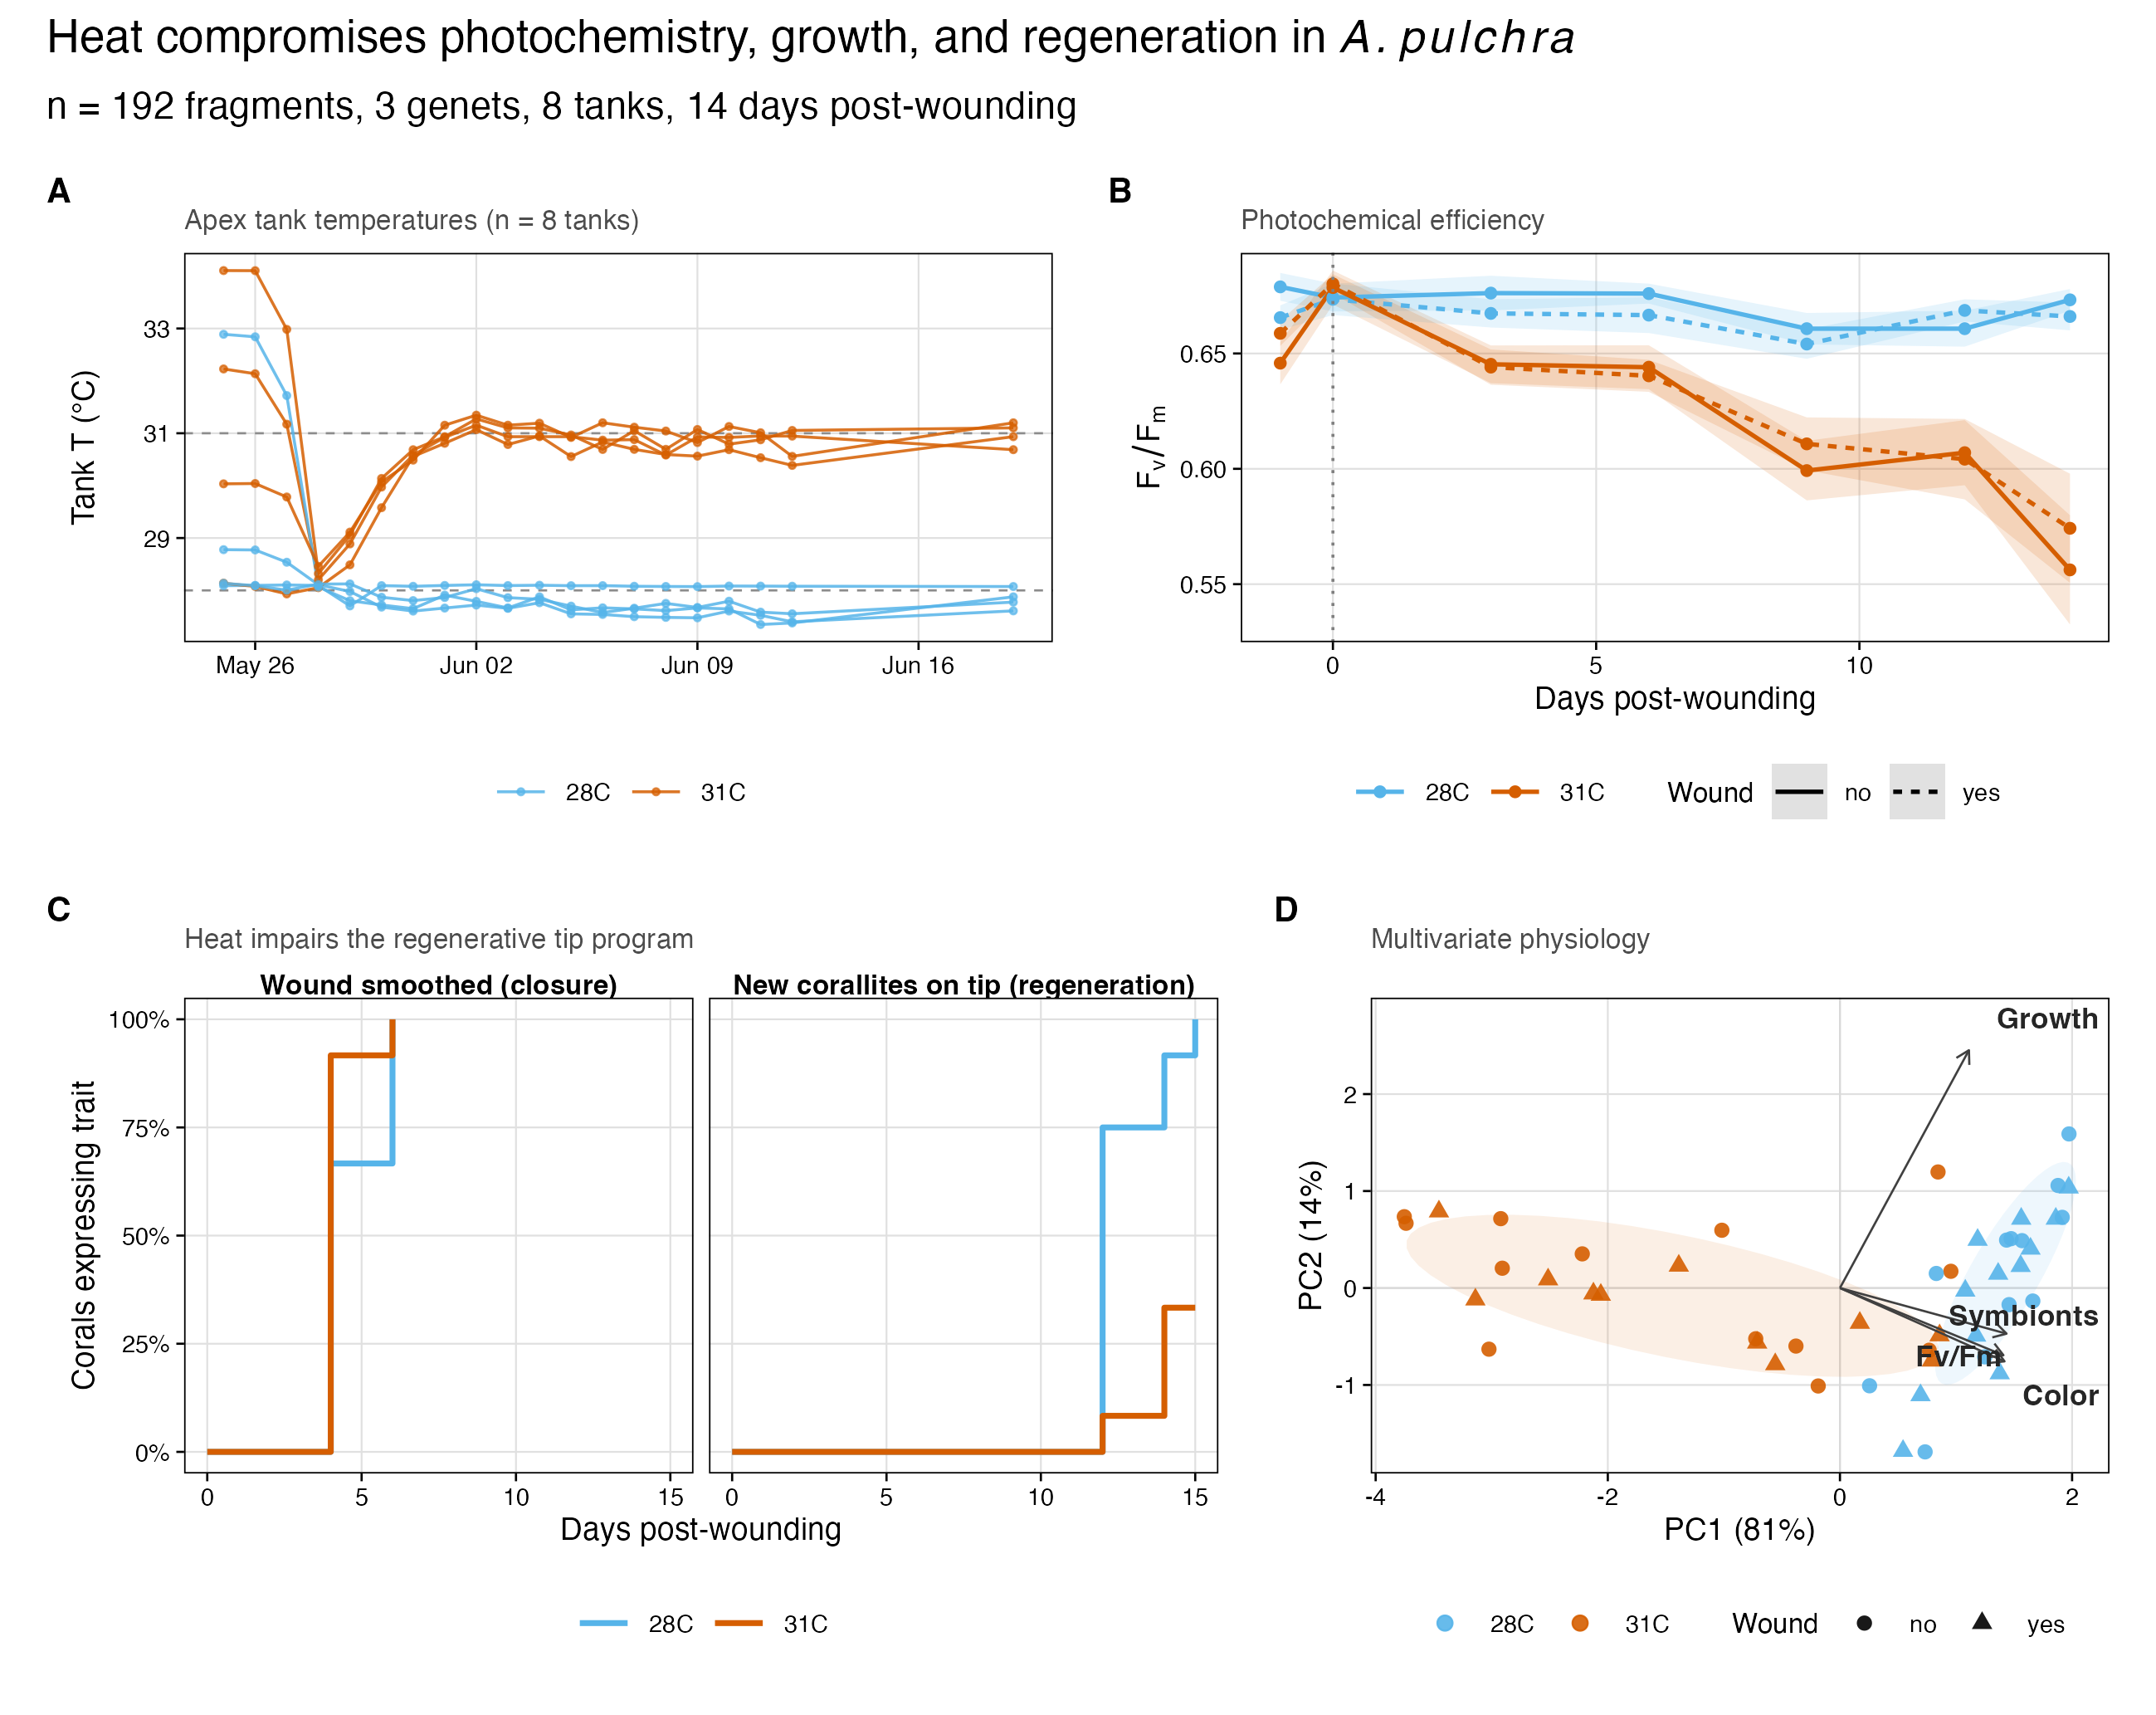
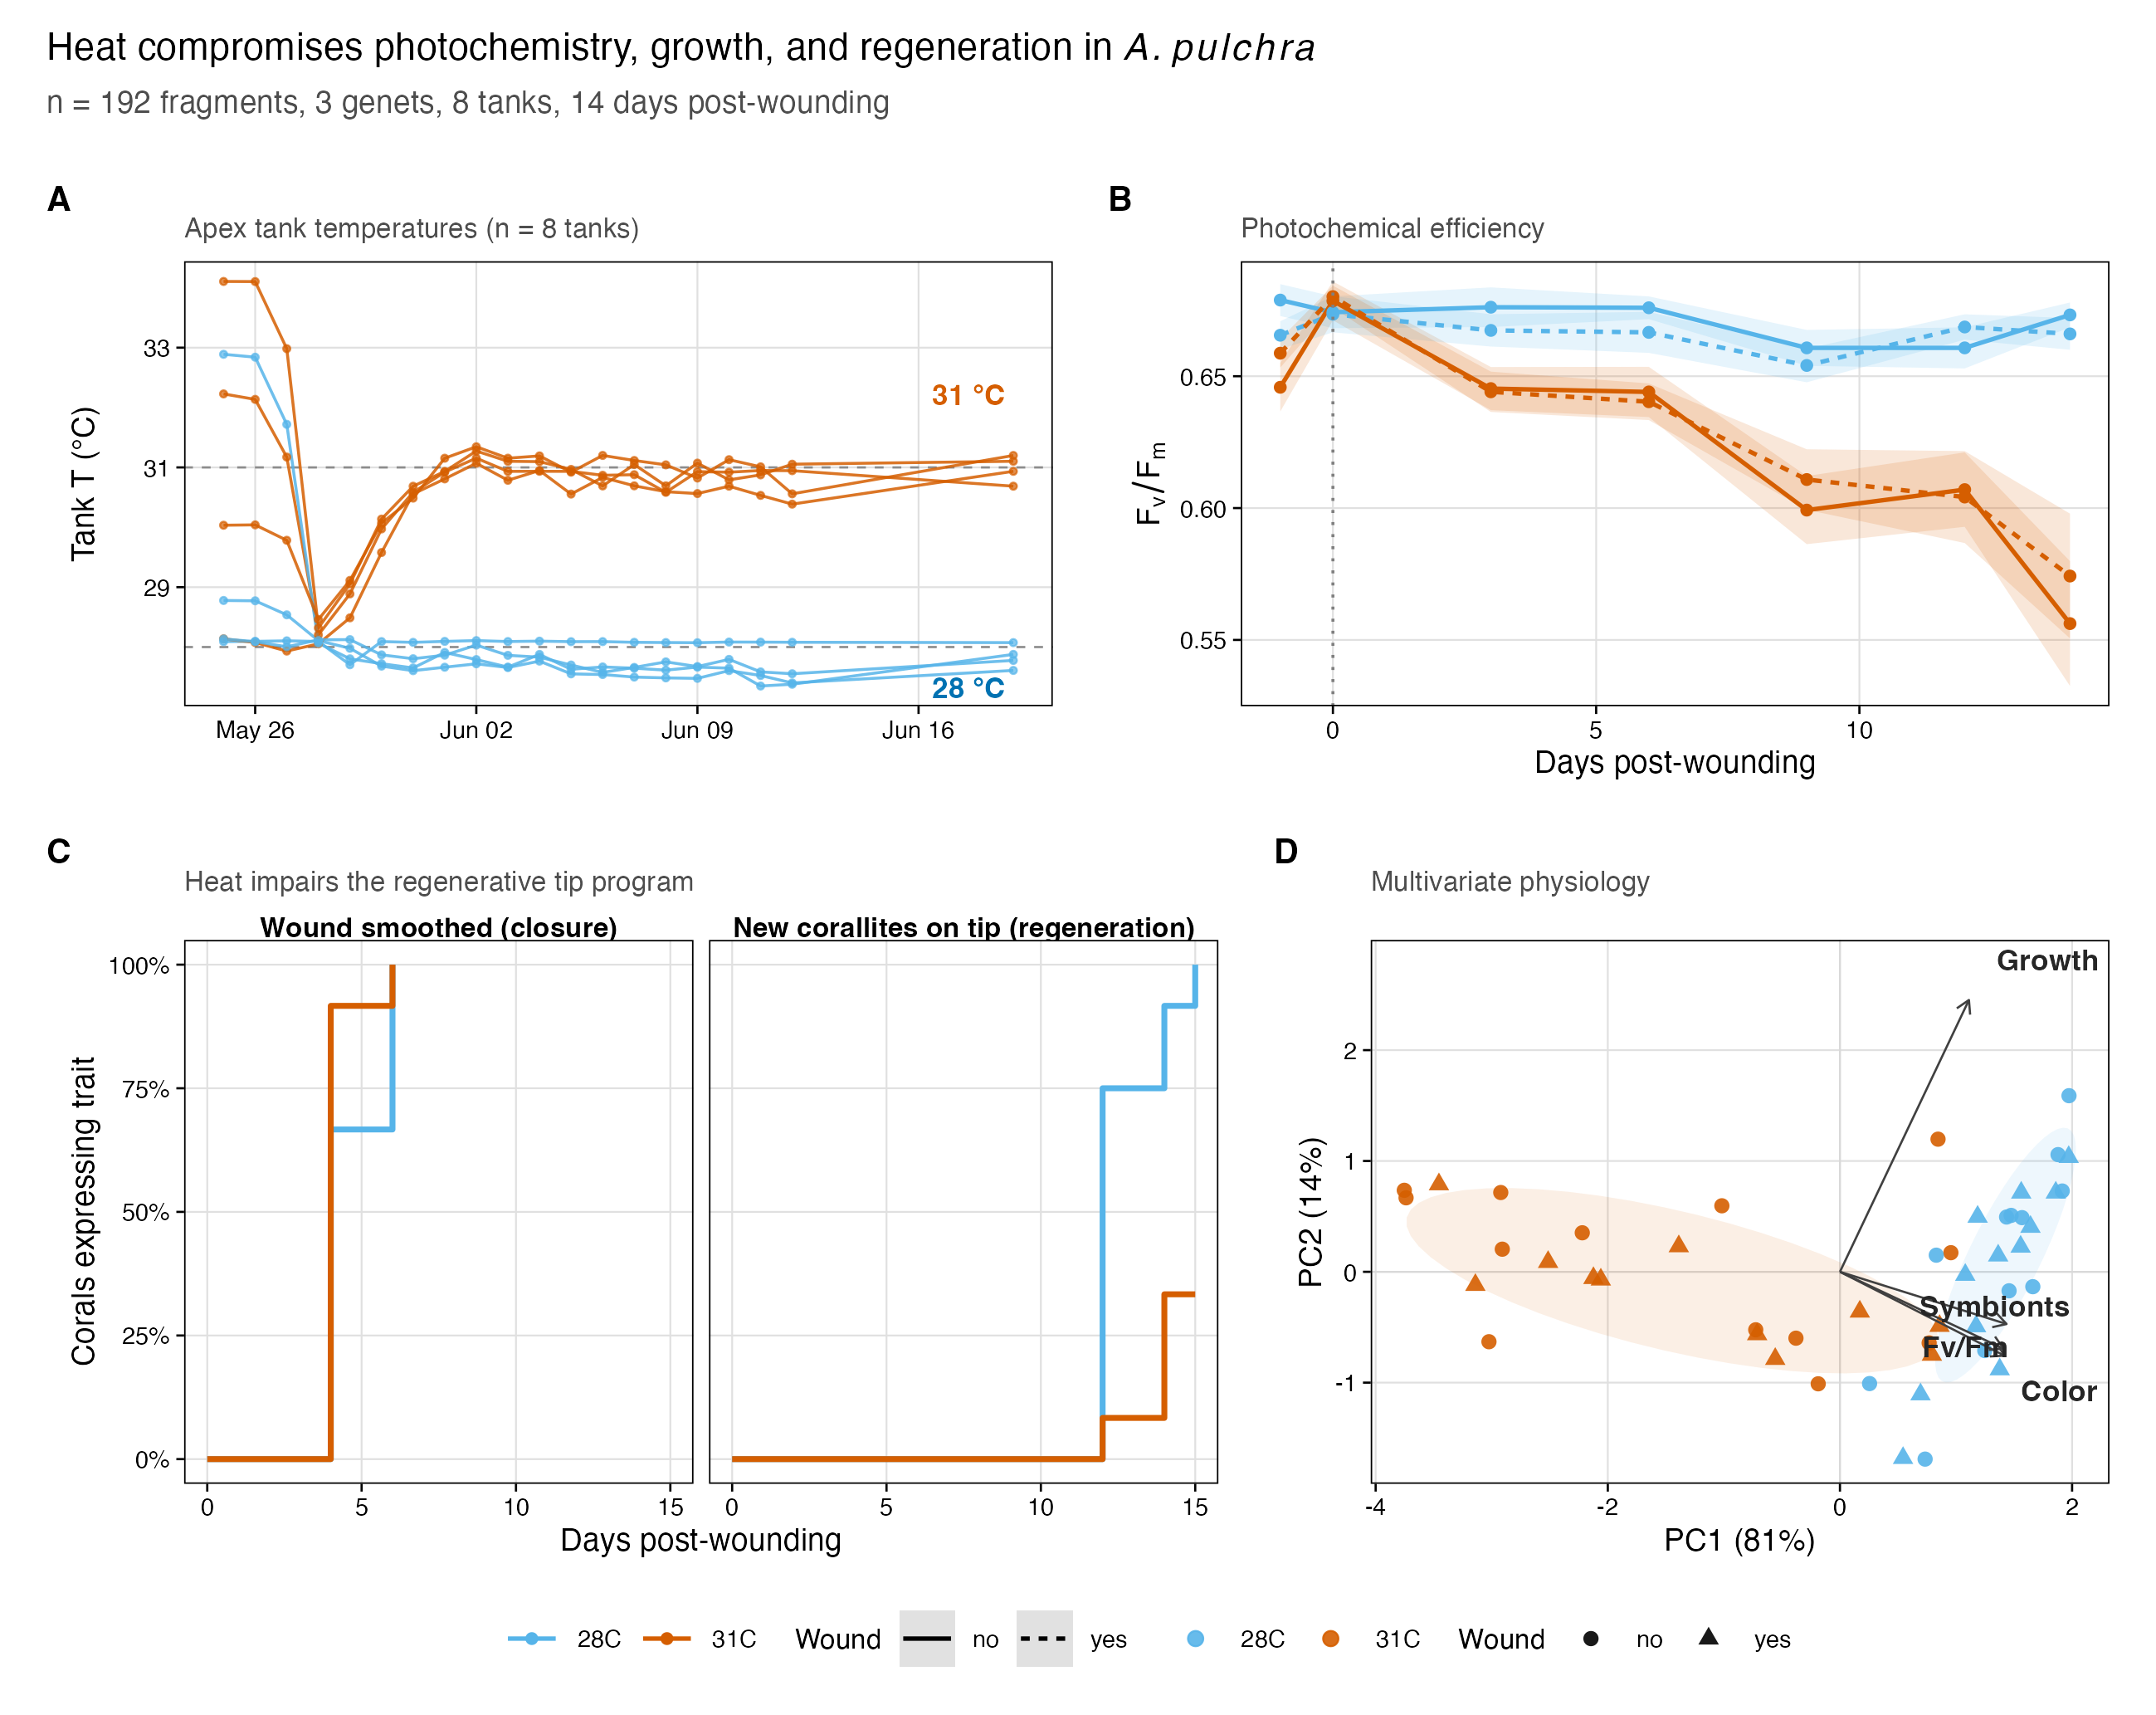
Multi-model critique pass on Fig 16: consolidate legends
Both Codex (GPT-4o, 27/40) and Gemini 2.5 Pro (23/40) flagged the
multi-legend layout as the single most impactful issue. Both critique
reports saved under figures/critiques/.

Applied fixes:
- Direct-label 28C/31C on Panel A (Codex: "two-group comparisons should
  be direct-labeled, not legend")
- patchwork::plot_layout(guides = "collect") to merge per-panel legends
- Removed colour guide from Panel C (already direct-labeled via A)
- Added explicit title/subtitle margin so panel letters get breathing
  room (Gemini: "title is too close to panels")

Tagged v0.1.0 release.

diff --git a/figures/critiques/gemini_critique_report.md b/figures/critiques/gemini_critique_report.md
@@ -1,0 +1,34 @@
+# Gemini Figure Critique Report
+
+**Date:** 2026-05-23 19:08
+**Journal:** Coral Reefs
+**Model:** gemini-2.5-pro (via Gemini CLI, OAuth subscription)
+
+---
+
+## 16_manuscript_fig1.png
+
+Skill conflict detected: "remotion-best-practices" from "/Users/adrianstier/.agents/skills/remotion-best-practices/SKILL.md" is overriding the same skill from "/Users/adrianstier/.gemini/skills/remotion-best-practices/SKILL.md".
+| Dimension | Score | Observation | Fix (if less than 4) |
+| :--- | :--- | :--- | :--- |
+| 1. Panel proportions | 4/5 | "The four main panels (A, B, C, D) have equal width and height, creating a balanced 2x2 grid." | The two sub-panels within Panel C are half the width of the others, which is slightly jarring. Consider giving Panel C more horizontal space if the x-axis detail is important. |
+| 2. Margins and clipping | 2/5 | "The main title 'Heat compromises photochemistry...' is too close to the panel letters, with descenders from 'photochemistry' and 'regeneration' nearly touching the 'B' and 'A' tags." | Add vertical space (e.g., `plot.margin` in ggplot2) between the figure title and the plot area to ensure clear separation. |
+| 3. Axis alignment | 1/5 | "The plot areas are not aligned. For example, the left edge of the plot area in Panel A is not vertically aligned with the plot area in Panel C." | Use a package like `patchwork` in R to compose the panels. It automatically aligns plot areas for panels stacked vertically or horizontally, which would fix this issue completely. |
+| 4. Legend system | 1/5 | "There are three separate, redundant legends for the '28C' vs '31C' color mapping (under panels A, C, and D), and two separate legends for the 'Wound' mapping (under B and D)." | Use a single, collected legend for the entire figure, placed at the bottom. The rules state "3-6 groups legend at bottom," and this principle of collection should apply. |
+| 5. Text readability | 3/5 | "The biplot labels in Panel D ('Growth', 'Symbionts', 'Fv/Fm', 'Color') are small, overlapping, and difficult to read." | Increase the font size of the biplot labels. Use a package like `ggrepel` to prevent the labels from overlapping each other and the data points. |
+| 6. Spacing consistency | 2/5 | "The vertical spacing between rows is inconsistent and cluttered with legends. The space between the title and row 1 is too tight, while the space between row 1 and row 2 is too large and filled." | Use a dedicated composition tool (like `patchwork`) and its `plot_layout(guides = 'collect')` feature. This will standardize spacing and collect legends, creating a clean and consistent layout. |
+| 7. Color accessibility | 5/5 | "The figure uses a light blue and an orange/brown, consistent with a colorblind-safe Okabe-Ito palette." | N/A |
+| 8. Data-ink ratio | 5/5 | "The plots use a minimal theme with a white background and light grey major gridlines, avoiding unnecessary visual clutter." | N/A |
+| **TOTAL** | **23/40** | | |
+
+### Post-Critique Summary
+
+1.  **The single most impactful change to improve this figure is:** **Collect all legends into a single, shared legend at the bottom of the figure.** This one change, enforced with a tool like `patchwork`, would resolve the redundancy, de-clutter the layout, and force the panel axes to align properly, fixing the three lowest-scoring dimensions simultaneously.
+
+2.  **Scientific convention violations:** The figure is generally good at following scientific conventions (*A. pulchra* is italicized, axes have units, error is shown). The main violation is one of presentation, not science: the legend for linetype in panel B (`Wound no/yes`) is repeated with shape in panel D, which is confusing. A single, consistent mapping (e.g., wound = triangle, no wound = circle) across all relevant panels should be used and defined once in the main legend.
+
+3.  **Would this figure tell its story without a caption? What story does it tell?** Yes, it tells a clear story.
+    *   **Story:** An experiment was run comparing corals at a normal temperature (28°C) and a high temperature (31°C), with some corals in each group being wounded. The high temperature clearly stressed the corals. It caused their photosynthetic efficiency to drop (Panel B), and it dramatically slowed their ability to heal wounds and regenerate new polyps (Panel C). The overall physiological data confirms this, showing the hot corals separating from the cool corals and being associated with negative health indicators (Panel D). The take-home message is that heat stress severely compromises the health and resilience of *A. pulchra*.
+
+---
+

diff --git a/figures/critiques/codex_critique_report.md b/figures/critiques/codex_critique_report.md
@@ -1,0 +1,30 @@
+# Codex (GPT-4o) Figure Critique Report
+
+**Date:** 2026-05-23 19:08
+**Journal:** Coral Reefs
+**Model:** GPT-4o (via Codex CLI, ChatGPT subscription)
+
+---
+
+## 16_manuscript_fig1.png
+
+| Dimension | Score | Observation | Fix (if less than 4) |
+|-----------|-------|-------------|--------------|
+| 1. Panel proportions | 4/5 | The 2x2 structure is clear and panel widths are mostly balanced; panel C’s internal faceting makes it visually heavier than D. | N/A |
+| 2. Margins and clipping | 4/5 | No obvious clipping; title/subtitle have enough space, though overall whitespace is generous for a 220 mm print figure. | N/A |
+| 3. Axis alignment | 3/5 | Top and bottom rows align reasonably, but shared “days post-wounding” axes are split across B and C rather than visually coordinated. | Consider stacking time-series/regeneration panels or standardizing x-axis treatment where biologically comparable. |
+| 4. Legend system | 2/5 | Multiple separate legends appear under A, B, C, and D. Two-group temperature legends violate the direct-labeling rule, and legends are not consolidated. | Direct-label 28C/31C in A and C; use one shared bottom legend for temperature plus wound status across B/D. |
+| 5. Text readability | 4/5 | Most text appears readable at 220 mm; axis titles are larger than tick labels and facet strip text in C is bold. | N/A |
+| 6. Spacing consistency | 3/5 | Vertical spacing is uneven: large gaps are driven by per-panel legends, especially between B and D and below C. | Remove redundant legends and use a single shared bottom legend to reclaim space and equalize row spacing. |
+| 7. Color accessibility | 4/5 | Blue/orange palette is effectively Okabe-Ito-like and colorblind-safe; linetype/shape redundantly encode wound status. | N/A |
+| 8. Data-ink ratio | 3/5 | The figure uses clean panels, but repeated legends, large title/subtitle, and prominent gridlines consume space relative to data. | Reduce legend repetition, lighten major gridlines, and consider moving experimental n details to caption if journal style allows. |
+| TOTAL | 27/40 | | |
+
+1. The single most impactful change: consolidate the legend system. Direct-label temperature where only two groups are shown, and use one shared bottom legend only where temperature and wound status both need decoding.
+
+2. Scientific convention violations: panel letters are present and clear; no legend is inside the data area. The main issue is legend convention: two-group comparisons should be direct-labeled, and repeated legends should be shared. Panel C also mixes two related regeneration endpoints correctly via faceting, but its shared x-axis could be cleaner with only one bottom axis label.
+
+3. Would this figure tell its story without a caption? Mostly yes. The main narrative is clear: heat treatment depresses photochemical efficiency, slows regeneration, and separates physiology in multivariate space. The exact experimental design and timing would still need the caption.
+
+---
+

diff --git a/figures/critiques/round2_/codex_critique_report.md b/figures/critiques/round2_/codex_critique_report.md
@@ -1,0 +1,8 @@
+# Codex (GPT-4o) Figure Critique Report
+
+**Date:** 2026-05-23 19:10
+**Journal:** Coral Reefs
+**Model:** GPT-4o (via Codex CLI, ChatGPT subscription)
+
+---
+